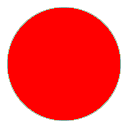
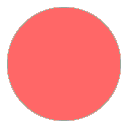
Fixed seam issue with some trials. Adjusted capsule to sphere for line of sight tasks. Reduced saturation of red projection. Tuned touch camera controls. Changed grandcanyon location to diffrent region of the canyon

diff --git a/Assets/Scripts/UI/UI Controls/TrialChooser.cs b/Assets/Scripts/UI/UI Controls/TrialChooser.cs
@@ -122,16 +122,16 @@ public class TrialChooser : MonoBehaviour {
                 Debug.Log("Blue is above red " + (bHr / iters) * 100 + "% of the time");
                 Debug.Log("Blue can see red " + (bSr/ iters) * 100 + "% of the time");
                 */
-        TrialGenerator.TwoHeightComparisons(out p1, out p2, Terrain.activeTerrain, 128, 964, 128, 964, 100, 300, 0.05f, 0.09f, 1f, 0.4f);
+        //TrialGenerator.TwoHeightComparisons(out p1, out p2, Terrain.activeTerrain, 128, 964, 128, 964, 100, 300, 0.05f, 0.09f, 0.5f, 0.0f);
 
-        //TrialGenerator.TwoSightComparisons(out p1, out p2, Terrain.activeTerrain, 128, 964, 128, 964, 100, 500, 4);
+        TrialGenerator.TwoSightComparisons(out p1, out p2, Terrain.activeTerrain, 128, 964, 128, 964, 100, 500, 4);
         setProjectors(p1, p2);
     }
 
     string format = "Projector 1: {0}, Projector 2: {1}, Locations: {2}, Type: {3}\n";
     public void saveTrial()
     {
-        System.IO.File.AppendAllText("Trials.txt",string.Format(format, proj1Tran.position, proj2Tran.position, locations.currentListedLocation, 'h'));
+        System.IO.File.AppendAllText("TrialsC.txt",string.Format(format, proj1Tran.position, proj2Tran.position, locations.currentStoredLocation, 'h'));
     }
 
     private TrialPair[] loadTrials(string filename)
@@ -183,13 +183,13 @@ public class TrialChooser : MonoBehaviour {
         l1 = trialPiars[val].blue;
         l2 = trialPiars[val].red;
 
-        l1.y = Terrain.activeTerrain.SampleHeight(l1) + 1f;
-        l2.y = Terrain.activeTerrain.SampleHeight(l2) + 1f;
+        l1.y = Terrain.activeTerrain.SampleHeight(l1) + 0.5f;
+        l2.y = Terrain.activeTerrain.SampleHeight(l2) + 0.5f;
 
         location1Indicator.position = l1;
         location2Indicator.position = l2;
 
-        blueCanSeeRed = !Physics.Linecast(l1, l2);
+        blueCanSeeRed = !Physics.Linecast(l1 + Vector3.up, l2 + Vector3.up);
 
         l1.y = Terrain.activeTerrain.SampleHeight(l1) + 20f;
         l2.y = Terrain.activeTerrain.SampleHeight(l2) + 20f;
@@ -209,13 +209,13 @@ public class TrialChooser : MonoBehaviour {
         l1 = p1;
         l2 = p2;
 
-        l1.y = Terrain.activeTerrain.SampleHeight(l1) + 1f;
-        l2.y = Terrain.activeTerrain.SampleHeight(l2) + 1f;
+        l1.y = Terrain.activeTerrain.SampleHeight(l1) + 0.5f;
+        l2.y = Terrain.activeTerrain.SampleHeight(l2) + 0.5f;
 
         location1Indicator.position = l1;
         location2Indicator.position = l2;
 
-        blueCanSeeRed = !Physics.Linecast(l1, l2);
+        blueCanSeeRed = !Physics.Linecast(l1 + Vector3.up, l2 + Vector3.up);
 
         l1.y = Terrain.activeTerrain.SampleHeight(l1) + 20f;
         l2.y = Terrain.activeTerrain.SampleHeight(l2) + 20f;

diff --git a/Assets/Scripts/Touch Controls/TouchCamera.cs b/Assets/Scripts/Touch Controls/TouchCamera.cs
@@ -155,7 +155,7 @@ public class TouchCamera : MonoBehaviour {
                     else
                         fingerRatio *= 1;//3;
 
-                    if (Mathf.Abs(oldTouchDistance - newTouchDistance) > 20 || (zoomMode && Mathf.Abs(oldTouchDistance - newTouchDistance) > 5))
+                    if (Mathf.Abs(oldTouchDistance - newTouchDistance) > 30 || (zoomMode && Mathf.Abs(oldTouchDistance - newTouchDistance) > 5))
                     {
                         zoomMode = true;
 
@@ -182,7 +182,7 @@ public class TouchCamera : MonoBehaviour {
                 {
 
                     //Handle Rotations
-                    if (Mathf.Abs(Mathf.Asin(Mathf.Clamp((oldTouchVector.y * newTouchVector.x - oldTouchVector.x * newTouchVector.y) / oldTouchDistance / newTouchDistance, -1f, 1f))) > Mathf.Sin(Mathf.Deg2Rad * 15) || rotateMode)
+                    if (Mathf.Abs(Mathf.Asin(Mathf.Clamp((oldTouchVector.y * newTouchVector.x - oldTouchVector.x * newTouchVector.y) / oldTouchDistance / newTouchDistance, -1f, 1f))) > Mathf.Sin(Mathf.Deg2Rad * 10) || rotateMode)
                     {
                         rotateMode = true;
                         float angle = Mathf.Asin(Mathf.Clamp((oldTouchVector.y * newTouchVector.x - oldTouchVector.x * newTouchVector.y) / oldTouchDistance / newTouchDistance, -1f, 1f)) * Mathf.Rad2Deg;

diff --git a/Assets/Scripts/UI/UI Controls/LocationDropdown.cs b/Assets/Scripts/UI/UI Controls/LocationDropdown.cs
@@ -31,7 +31,7 @@ public class LocationDropdown : MonoBehaviour {
         locationFunctionPairs.Add("Monte Vista", () => map.ChangeTile(37.7f, -106.35f, 11, location: "Monte Vista") );
         locationFunctionPairs.Add("Everest", () => map.ChangeTile(28.1000f, 86.8658f, 11, 'a', 0, 0, 4, location: "Everest"));
         locationFunctionPairs.Add("Cliffs of Dover", () => map.ChangeTile(51.1345f, 1.3573f, 15, 'a', -3, -1, 4, location: "Cliffs of Dover"));
-        locationFunctionPairs.Add("Grand Canyon", () => map.ChangeTile(36.2144f, -113.0565f, 13, 'a', -2, -2, location: "Grand Canyon"));
+        locationFunctionPairs.Add("Grand Canyon", () => map.ChangeTile(36.2144f, -113.0565f, 13, 'a', 0, -1, location: "Grand Canyon"));
         locationFunctionPairs.Add("Blanca Peak", () => map.ChangeTile(37.57f, -105.48f, 12, 'a', -2, -2, location: "Blanca Peak"));
         locationFunctionPairs.Add("Sierro del Ojito", () => map.ChangeTile(37.29f, -105.80f, 14, location: "Sierro del Ojito"));
         locationFunctionPairs.Add("Mount Waialeale", () => map.ChangeTile(22.0707f, -159.4961f, 12, mXOffset:-2, mYOffset:-2, location: "Mount Waialeale"));
